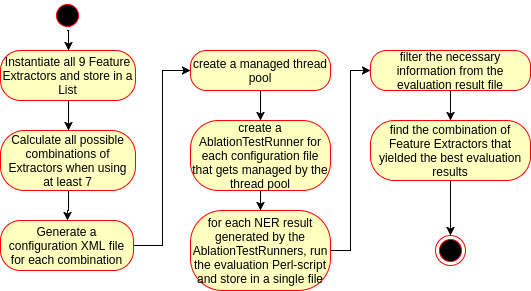
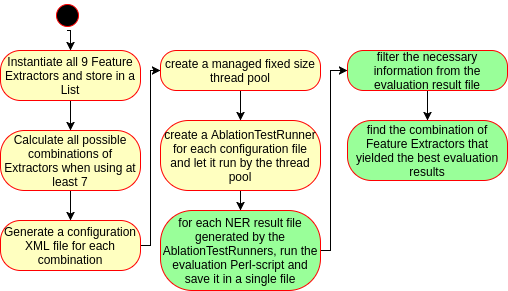
added docu for runner ablation etc

diff --git a/docs/documentation/documentation.tex b/docs/documentation/documentation.tex
@@ -13,6 +13,9 @@
 \usepackage{varioref}
 \usepackage{hyperref}
 \usepackage[font={small,it}]{caption}
+\usepackage{booktabs}
+\usepackage{graphicx}
+\usepackage{lscape}
 
 %% Title and Header
 \usepackage{fancyhdr}
@@ -40,6 +43,7 @@
 \pagestyle{mainmatter}
 
 \section{Newly implemented classes}
+\label{sec:Classes}
 The following classes were newly implemented in \url{de.unihamburg.informatik.nlp4web.tutorial.tut5}.
 
 \subsection{\texttt{writer.NERWriter}}
@@ -63,7 +67,8 @@ If the configuration parameter \verb/PARAM_VERBOSE/ is set to \verb/true/, all i
 
 The configuration parameter \verb/PARAM_EXPECTED_ENTITY_TYPE_NUM/ is used for the initialization of data structures and only affects efficiency, but not functionality.
 
-\subsection{\texttt{NEListExtractor}}
+\subsection{\texttt{NEListExtractor<Token>}}
+\label{sec:NEListExtractor}
 This class provides a functionallity to create a feature if the covered text of a token appears in a gazetteer. As shown in figure \ref{fig:NEListExtractor}, the \verb/NEListExtractor/ class implements the \verb/FeatureFunction/ interface. This is because this feature extractor works on the covered text of a token as mentioned before. Therefore, to use the \verb/NEListExtractor/ one has to do use it with the \verb/CoveredTextExtractor/ from the ClearTK Framework. An example can be seen in figure \ref{fig:NEListExtractorSample}.
 
 \includegraphics[width=\linewidth, keepaspectratio]{gfx/createNEListExtractor.png}
@@ -84,7 +89,7 @@ The functionallity of the \verb/NEListExtractor/ is implemented in the overridde
 
 \subsection{\texttt{FeatureExtractorFactory}}
 \label{sec:FeatureExtractorFactory}
-This class only serves as untility class to instantiate the different Feature Extractors that will be used during NER and helps to reduce code redundancy. The class diagram is shown in figure \ref{fig:FeatureExtractorFactory}The names of the methods represent exactly what the method does - no magic at all.
+This class only serves as untility class to instantiate the different Feature Extractors that will be used during NER and helps to reduce code redundancy. The class diagram is shown in figure \ref{fig:FeatureExtractorFactory}. The names of the methods represent exactly what the method does - no magic at all. A more detailed description of the different Features Extractors have a look at section \ref{sec:FeatureExtractors}
 
 \includegraphics[scale=0.5]{gfx/FeatureExtractorFactory.png}
 \captionof{figure}{Class diagram of the FeatureExtractorFactory}
@@ -92,11 +97,18 @@ This class only serves as untility class to instantiate the different Feature Ex
 
 \subsection{\texttt{AblationTestRunner}}
 \label{sec:AblationTestRunner}
-This class implements the Runnable interface and holds the algorithm of one single run 'ablation test run'. %%TODO
+This class implements the \verb/Runnable/ interface and holds the algorithm of one single 'ablation test run'. The methods and algorithm in general were already provided by the boilerplate code available in the moodle course and contains only three steps shown in figure \ref{fig:AblationTestRunnerAlgo}. 
+
+\includegraphics[scale=0.5]{gfx/ablationRunnerAlgo.png}
+\captionof{figure}{Activity diagram of the high level algorithm of the \texttt{AblationTestRunner}}
+\label{fig:AblationTestRunnerAlgo}
+
+The only adaption, that was made to the methods is, that each instance of an \verb/AblationTestRunner/ gets initialized with the configuration file, training file and test file, that will be used within the methods, whereas the boilerplate code used hardcoded file names. The constructor of the class also requires an Integer that represents the ID of one instance. This ID is used to write the generated models to different locations. Since the \verb/AblationTestRunner/s are running in parallel, this step is neccessary because if we would do otherwise, the runners would always read/write to/from the same model. This, of course, leads to fatal errors since the Features used in the models are different in different models.
 
 \includegraphics[scale=0.5]{gfx/AblationTestRunner.png}
 \captionof{figure}{Class diagram of the AblationTestRunner}
 \label{fig:AblationTestRunner}
+
 
 \subsection{\texttt{ExecuteFeatureAblationTest}}
 \label{sec:ExecuteFeatureAblationTest}
@@ -117,6 +129,53 @@ This class was only slightly modified by refactoring some methods to reduces cod
 \captionof{figure}{Class diagram of the Features2Xml class}
 \label{fig:Features2Xml}
 
+\section{Used Feature Extractors}
+In this section the Feature Extractors that are used during the NER are described. Most of the time we used FeatureExtractors of the UIMA or ClearTK Framework and will therefor not describe them in this document. For a detailed description please visit the API Documentaion of the ClearTK Framework which can be found via this URL: \url{https://cleartk.github.io/cleartk/apidocs/2.0.0/}
+\subsection{Description}
+
+\subsubsection*{StemExtractor - Type: \texttt{TypePathExtractor<Token>}}
+This \verb/TypePathExtractor/ will create a \verb/Feature/ from the stem value of the Token
+
+\subsubsection*{TokenFeatureExtractor - Type: \texttt{FeatureFunctionExtractor<Token>}}
+This \verb/FeatureFunctionExtractor/ uses a \verb/CoveredTextExtractor/ as base \verb/FeatureExtractor/ and creates \verb/Feature/s with the following \verb/FeatureFunction/s: \verb/LowerCaseFeatureFunction/, \verb/CapitalTypeFeatureFunction/, \verb/NumericTypeFeatureFunction/, \verb/CharacterNgramFeatureFunction/ to create a bigram suffix, \verb/CharacterNgramFeatureFunction/ to create a trigram suffix, \verb/CharacterCategoryPatternFunction/
+
+\subsubsection*{TokenContextExtractor - Type: \texttt{CleartkExtractor<Token, Token>}}
+This FeatureExtractor creates a Feature from the context of the Token it analyses. As base \verb/FeatureExtractor/ a \verb/CoveredTextExtractor/ is used and the context is set to the two preceeding and following Tokens.
+
+\subsubsection*{NameListExtractor - Type: \texttt{FeatureFunctionExtractor<Token>}}
+This \verb/FeatureFunctionExtractor/ uses a \verb/CoveredTextExtractor/ as base \verb/FeatureExtractor/ and two \verb/NEListExtractor/s (see section \ref{sec:NEListExtractor}) to create a \verb/Feature/. The gazetteers that are used are descriped in section \ref{sec:Gazetteers}.
+
+\subsubsection*{CityListExtractor - Type: \texttt{FeatureFunctionExtractor<Token>}}
+This \verb/FeatureFunctionExtractor/ uses a \verb/CoveredTextExtractor/ as base \verb/FeatureExtractor/ and two \verb/NEListExtractor/s (see section \ref{sec:NEListExtractor}) to create a \verb/Feature/. The gazetteers that are used are descriped in section \ref{sec:Gazetteers}.
+
+\subsubsection*{CountryListExtractor - Type: \texttt{FeatureFunctionExtractor<Token>}}
+This \verb/FeatureFunctionExtractor/ uses a \verb/CoveredTextExtractor/ as base \verb/FeatureExtractor/ and two \verb/NEListExtractor/s (see section \ref{sec:NEListExtractor}) to create a \verb/Feature/. The gazetteers that are used are descriped in section \ref{sec:Gazetteers}.
+
+\subsubsection*{MiscListExtractor - Type: \texttt{FeatureFunctionExtractor<Token>}}
+This \verb/FeatureFunctionExtractor/ uses a \verb/CoveredTextExtractor/ as base \verb/FeatureExtractor/ and two \verb/NEListExtractor/s (see section \ref{sec:NEListExtractor}) to create a \verb/Feature/. The gazetteers that are used are descriped in section \ref{sec:Gazetteers}.
+
+\subsubsection*{LocListExtractor - Type: \texttt{FeatureFunctionExtractor<Token>}}
+This \verb/FeatureFunctionExtractor/ uses a \verb/CoveredTextExtractor/ as base \verb/FeatureExtractor/ and two \verb/NEListExtractor/s (see section \ref{sec:NEListExtractor}) to create a \verb/Feature/. The gazetteers that are used are descriped in section \ref{sec:Gazetteers}.
+
+\subsubsection*{OrgListExtractor - Type: \texttt{FeatureFunctionExtractor<Token>}}
+This \verb/FeatureFunctionExtractor/ uses a \verb/CoveredTextExtractor/ as base \verb/FeatureExtractor/ and two \verb/NEListExtractor/s (see section \ref{sec:NEListExtractor}) to create a \verb/Feature/. The gazetteers that are used are descriped in section \ref{sec:Gazetteers}.
+
+\subsection{Gazeteers for the different \texttt{NEListExtractor}s}
+\label{sec:Gazetteers}
+
+\subsubsection*{Country and City Lists}
+Source: \url{https://dev.maxmind.com/geoip/geoip2/geolite2/}\\
+This dataset contains a list of countries and cities in multiple languages a long some information which is not needed in out application. We filtered the neccessary information, which contains a list of countries in german and english language and stored it in a simple text file.
+
+\subsubsection*{Name Lists}
+Source: \url{http://www.quietaffiliate.com/free-first-name-and-last-name-databases-csv-and-sql/}\\
+This dataset is made up from 5494 first names and 88799 last names. We also formatted the data to meet the interface contraints from the \verb/NEListExtractor/s. 
+
+\subsubsection*{Loc(ation), Misc(ellanous) and Org(anisation) List}
+Source: provided via Moodle Course\\
+Here we just splitted the list, that is available in the Moodle Course into three lists containing location, miscellaneous and organisation names. Since the interface of the \verb/NEListExtractor/ requires the lists to be in only one column, we removed the first column of the original list. Note that we dropped the entries in the original list that hold personal names since we use the dataset described above.
+
+
 
 \section{Feature Ablation}
 \label{sec:Ablation}
@@ -126,7 +185,7 @@ In this section the process of Feature Ablation that is done in this project get
 \label{sec:AblationApproach}
 To see the impact of the different Feature Extractors that are used during the NER, we evaluate the results of the NER when using different combinations of Feature extractors. Since only commenting out the extractors we want not to use in one single Ablation test and run the programm manually again and again, is very boring and takes a lot of time, we thought of an highly automated process which tests a lot of combinations of Feature Extractors. Theoretically we could test every single possible combination, which in our case would lead to $\sum_{k=1}^{n}\binom{n}{k} = 511$ different combinations, where $n = \left | M \right | = 9$ and $M = \{ FeatureExtractor_1, ..,  FeatureExtractor_n \}$ , denoting the set of Feature Extractors we us in the NER. We don't do this since firstly, it's not very useful to test all combinations since it is obvious that the results will be worse if only one or two Extractors are used and secondly, it would require too much computing power (i.e. time). One argument why one could do this anyways is, that one can get more detailed information about the impact of a single Feature Extractor on the result of the NER.\\
 We think a good tradeoff would be if we test all possible combinations of Feature Extractors when using at least seven out of the nine Extractors we use in the NER. When doing this, the number of possible combinations gets reduced to $\sum_{k=7}^{9}\binom{9}{k} = 46$. Because this is still requires a lot of time to compute, we designed the algorithm to run the tests for the different combinations cuncurrently (see section \ref{sec:AblationTestRunner} and \ref{sec:ExecuteFeatureAblationTest} for more detailed information about the algorithm).\\
-The algorithm is explained graphically in figure \ref{fig:AblationAlgo}
+The algorithm is explained graphically and at a high level in figure \ref{fig:AblationAlgo}. In this actitity diagram, the color of the steps indicates wether the step is implemented in Java (yellow) or with a Bash / Perl script (green).\\
 
 \includegraphics[scale=0.75]{gfx/ablationAlgo.png}
 \captionof{figure}{(High level) Algorithm to find the best combination of Feature Extractors for NER}
